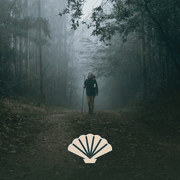
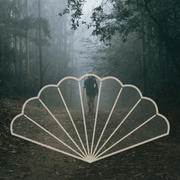
App-Symbol: transparente Muschel über das ganze Startbild
Claude-Session: https://claude.ai/code/session_011UcxNEcxcn3nBjovhUH41e

diff --git a/sw.js b/sw.js
@@ -1,5 +1,5 @@
 /* Camino 2027 – Offline-Cache */
-const CACHE = 'camino-v48';
+const CACHE = 'camino-v49';
 const FOTOS = 'camino-fotos'; // vom Knopf «Fotos offline speichern», bleibt über Updates erhalten
 const CORE = ['./', './index.html', './css/site.css', './js/app.js', './data/trip.js', './manifest.webmanifest', './icon.svg', './icon-192.png', './apple-touch-icon.png',
   './images/start/pilger-nebelwald-800.webp', './images/porto/porto-douro-sonnenuntergang-800.webp', './images/porto/porto-ponte-luis-blaue-stunde-800.webp',
